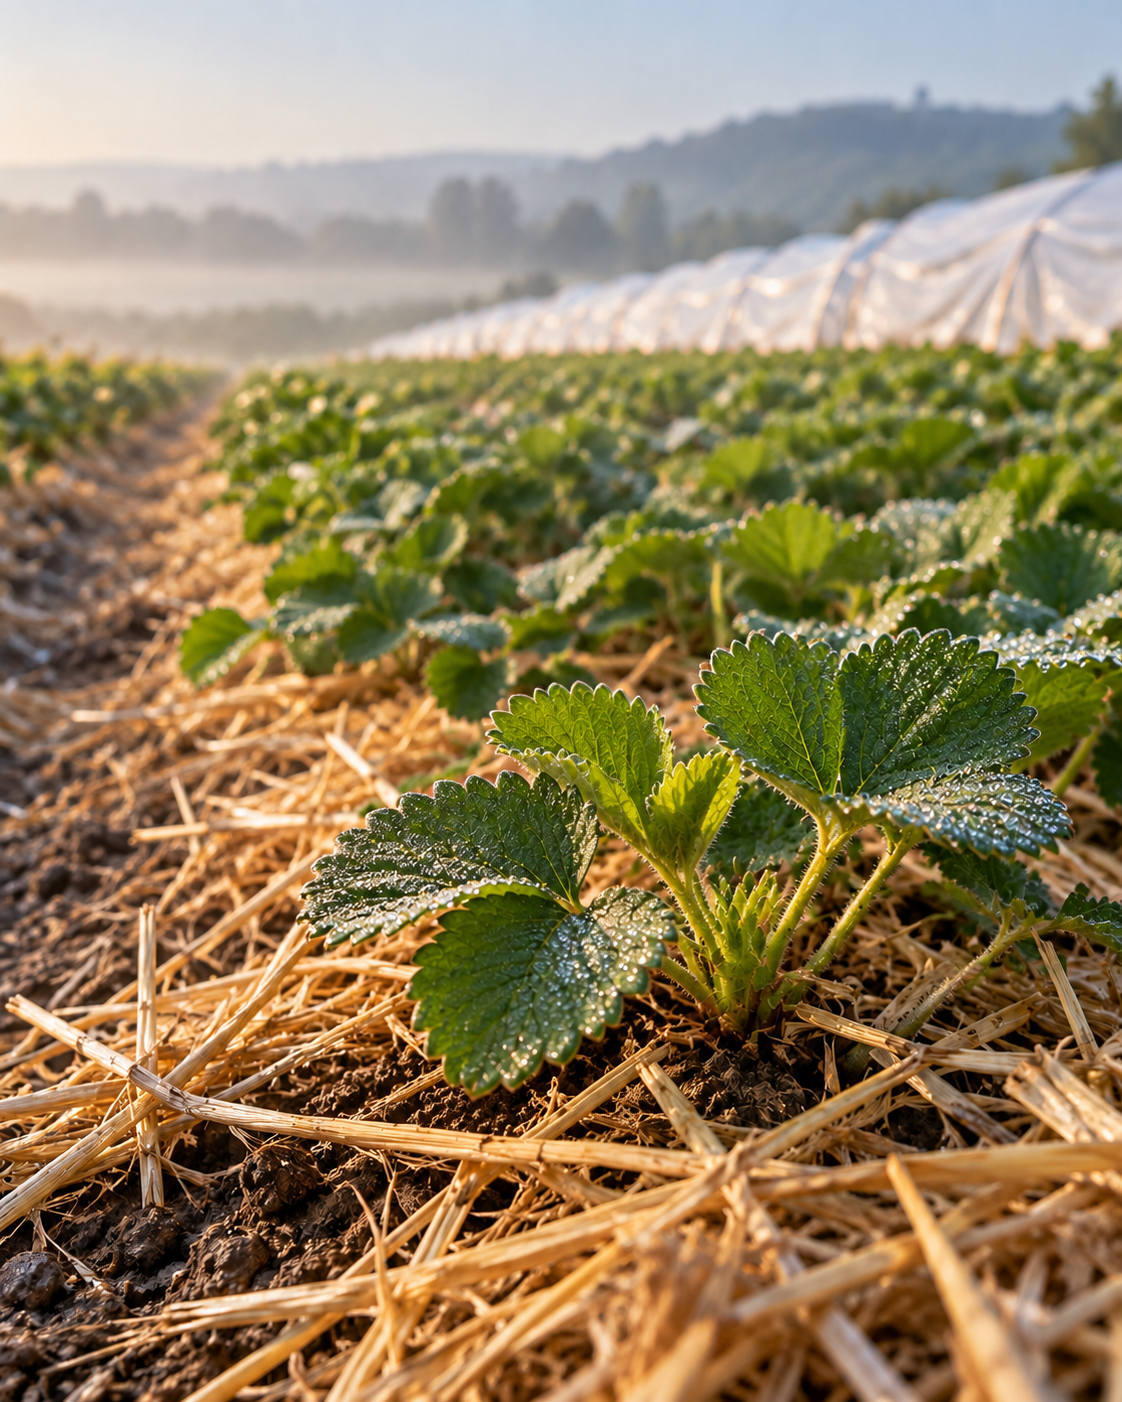
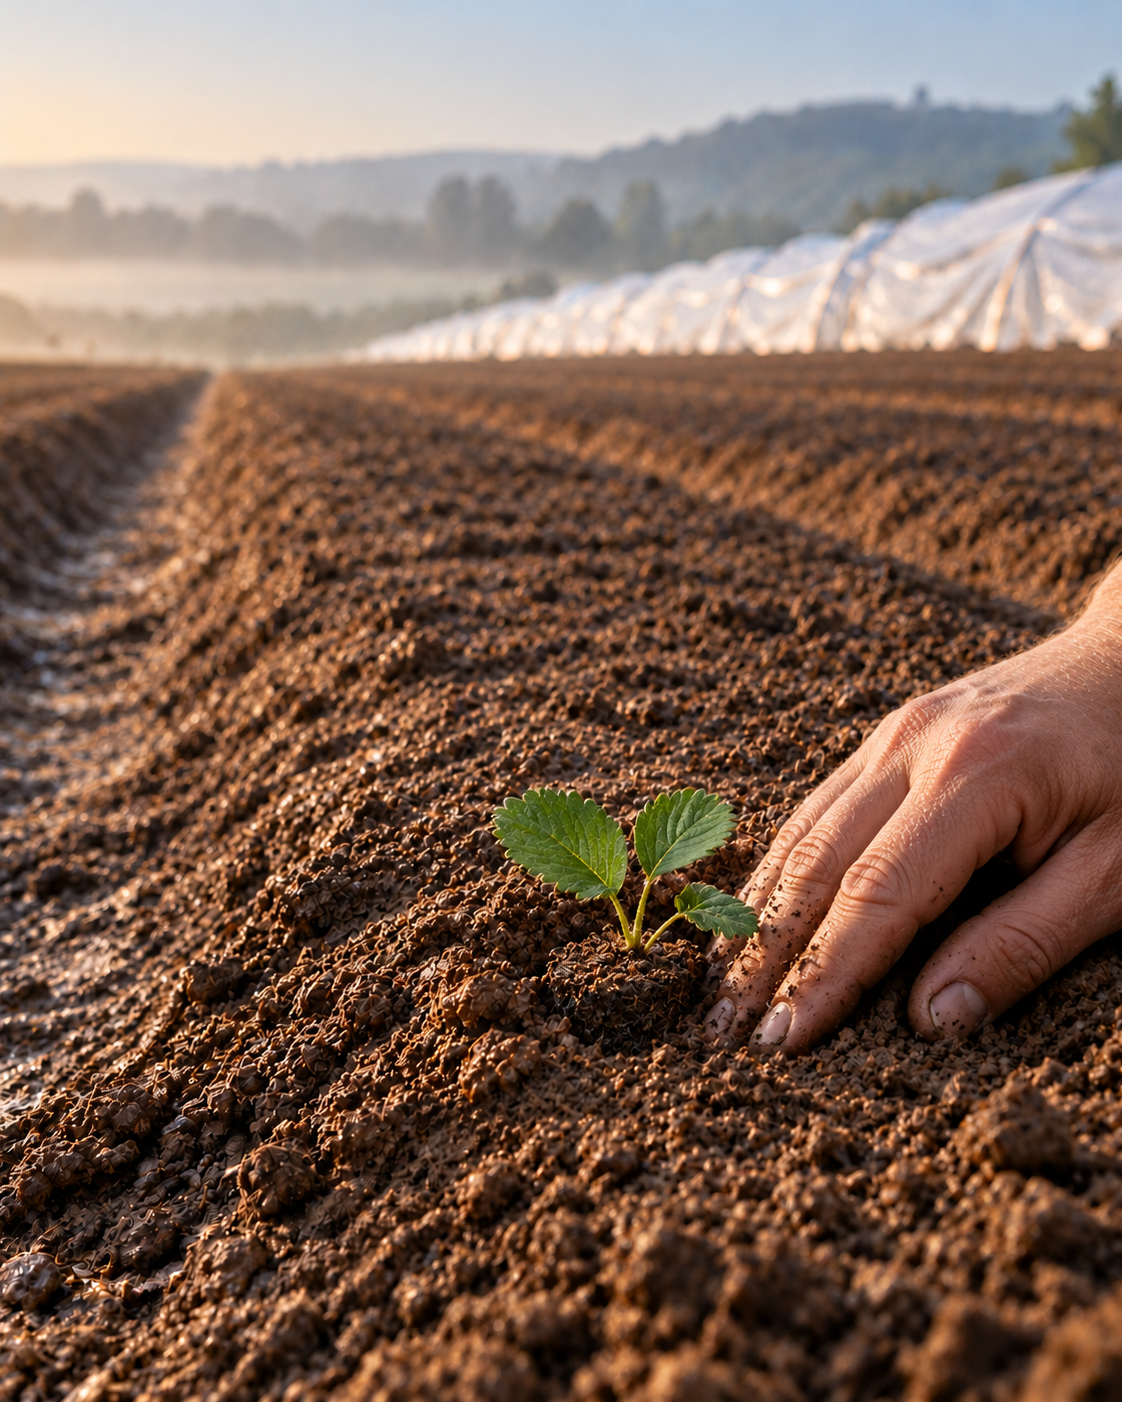
assets: refine strawberry planting opening frames

diff --git a/docs/strawberry-video-storyboard.md b/docs/strawberry-video-storyboard.md
@@ -20,7 +20,7 @@
 В усіх фазах залишаються незмінними:
 
 - одна й та сама рослина та її положення;
-- той самий земляний гребінь і золотиста солома;
+- той самий земляний гребінь; на початку ґрунт чистий, солома додається лише після укорінення рослини;
 - напрямок ранкового світла зліва направо;
 - фон із рядами поля та напівпрозорим тунелем;
 - камера на низькій висоті, 50 mm, без різких стрибків фокусної відстані;
@@ -30,11 +30,12 @@
 
 | Час | Scroll | Фаза | Візуальна дія | UI |
 |---:|---:|---|---|---|
-| 0.0–2.2 s | 0–15% | Ankommen | ґрунт, молода рослина, листки лише розкриваються | `01 / 05`, Ankommen |
-| 2.2–5.0 s | 15–34% | Wachsen | листя розростається, з'являється роса, краплинна вода входить у ґрунт | `02 / 05`, Wachsen |
-| 5.0–8.1 s | 34–55% | Blühen | розкриваються білі квіти, один джміль запилює центральну квітку | `03 / 05`, Blühen |
-| 8.1–11.8 s | 55–80% | Reifen | квітка переходить у зелений плід, той повільно стає білим і червоним | `04 / 05`, Reifen |
-| 11.8–15.0 s | 80–100% | Genießen | рука збирача входить справа, зриває стиглу ягоду й кладе у картонний кошик | `05 / 05`, Genießen |
+| 0.0–1.5 s | 0–10% | Boden | чистий підготовлений ґрунт без соломи та рослин | `00`, Der Anfang |
+| 1.5–3.0 s | 10–20% | Anpflanzen | рука висаджує одну маленьку рослину в чистий ґрунт | `01 / 05`, Anpflanzen |
+| 3.0–5.5 s | 20–37% | Wachsen | рука виходить, листя розростається; солома з'являється лише наприкінці фази | `02 / 05`, Wachsen |
+| 5.5–8.5 s | 37–57% | Blühen | розкриваються білі квіти, один джміль запилює центральну квітку | `03 / 05`, Blühen |
+| 8.5–12.0 s | 57–80% | Reifen | квітка переходить у зелений плід, той повільно стає білим і червоним | `04 / 05`, Reifen |
+| 12.0–15.0 s | 80–100% | Genießen | рука збирача входить справа, зриває стиглу ягоду й кладе у картонний кошик | `05 / 05`, Genießen |
 
 ## Ритм руху
 
@@ -68,4 +69,3 @@ text step: floor(progress × 5)
 
 - `docs/video-prompts/strawberry-growth.seedance.json`
 - `docs/video-prompts/strawberry-products.seedance.json`
-

diff --git a/public/images/storyboards/strawberry/README.md b/public/images/storyboards/strawberry/README.md
@@ -4,7 +4,8 @@ All frames are 1122 × 1402 PNG files generated as continuity-preserving edits o
 
 | Frame | File | Video transition |
 |---:|---|---|
-| 01 | `01-anpflanzen.png` | young plant establishes and unfolds |
+| 00 | `00-boden-vorbereitet.png` | clean prepared soil, no plants or straw |
+| 01 | `01-anpflanzen.png` | one tiny starter plant is planted by hand |
 | 02 | `02-wachsen.png` | crown fills out, flower buds rise |
 | 03 | `03-bluehen.png` | buds open; one bumblebee pollinates |
 | 04 | `04-reifen.png` | flowers form green, pale and red fruit |
@@ -12,18 +13,18 @@ All frames are 1122 × 1402 PNG files generated as continuity-preserving edits o
 
 ## Recommended video workflow
 
-Generate four short transitions rather than asking the model for the full lifecycle in one pass:
+Generate five short transitions rather than asking the model for the full lifecycle in one pass:
 
-1. frame 01 → frame 02, 3–4 seconds;
-2. frame 02 → frame 03, 3–4 seconds;
-3. frame 03 → frame 04, 4–5 seconds;
-4. frame 04 → frame 05, 3–4 seconds.
+1. frame 00 → frame 01, 2–3 seconds: a hand plants the starter;
+2. frame 01 → frame 02, 3–4 seconds: the hand leaves, the plant grows and straw is added only near the end;
+3. frame 02 → frame 03, 3–4 seconds: buds open and the bumblebee arrives;
+4. frame 03 → frame 04, 4–5 seconds: flowers form and fruit ripens;
+5. frame 04 → frame 05, 3–4 seconds: the ripe fruit is picked into the basket.
 
 Use the end frame of every clip as the start frame of the next clip. Preserve the fixed camera; ask for biological growth only. Join the clips without crossfades, then export a constant-frame-rate master.
 
 ## Shared negative constraints
 
-No camera movement, no reframing, no new plants, no changing field or tunnel, no fantasy morphing, no duplicated leaves or fruit, no plastic CGI texture, no text, no labels, no logo, no watermark.
+No camera movement, no reframing, no changing field or tunnel, no fantasy morphing, no duplicated leaves or fruit, no plastic CGI texture, no text, no labels, no logo, no watermark. The opening field is bare: straw must not appear before the plant has visibly established.
 
 The full motion prompt is stored at `docs/video-prompts/strawberry-growth.seedance.json`.
-
